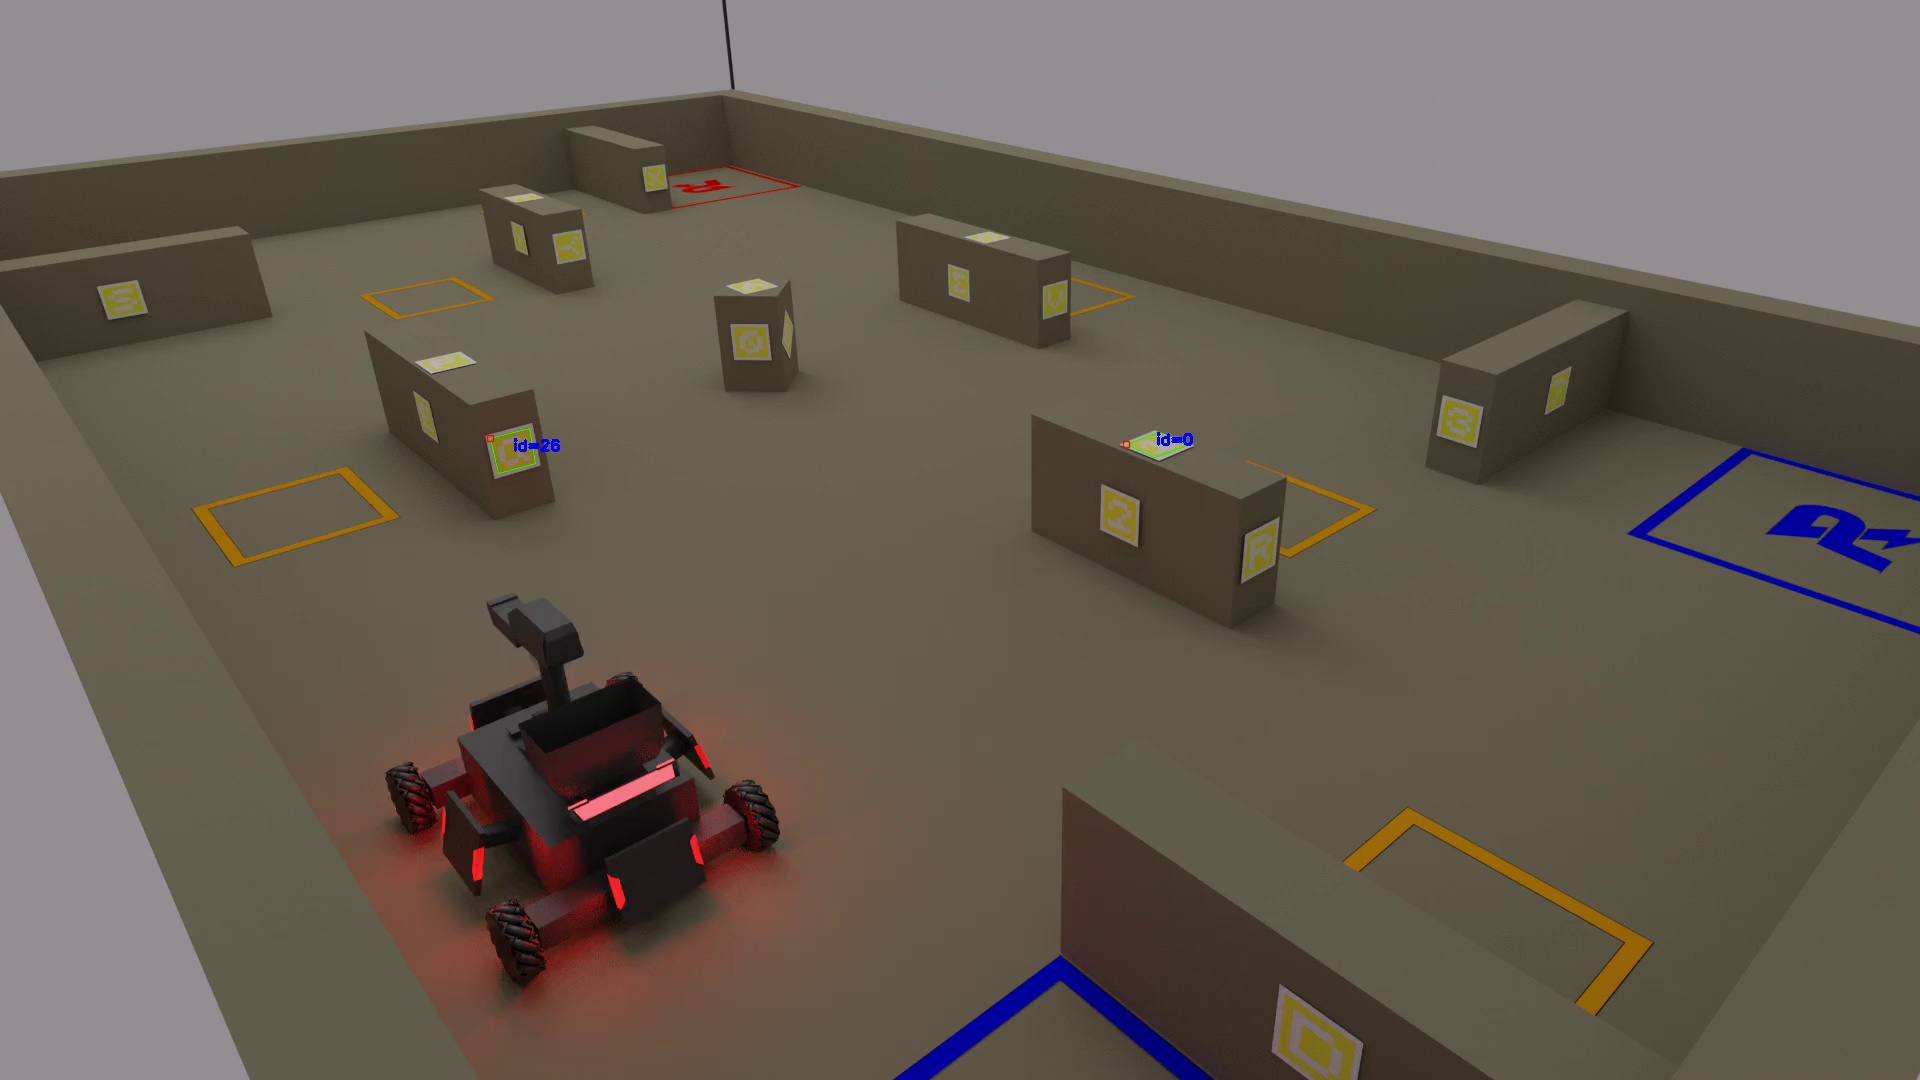
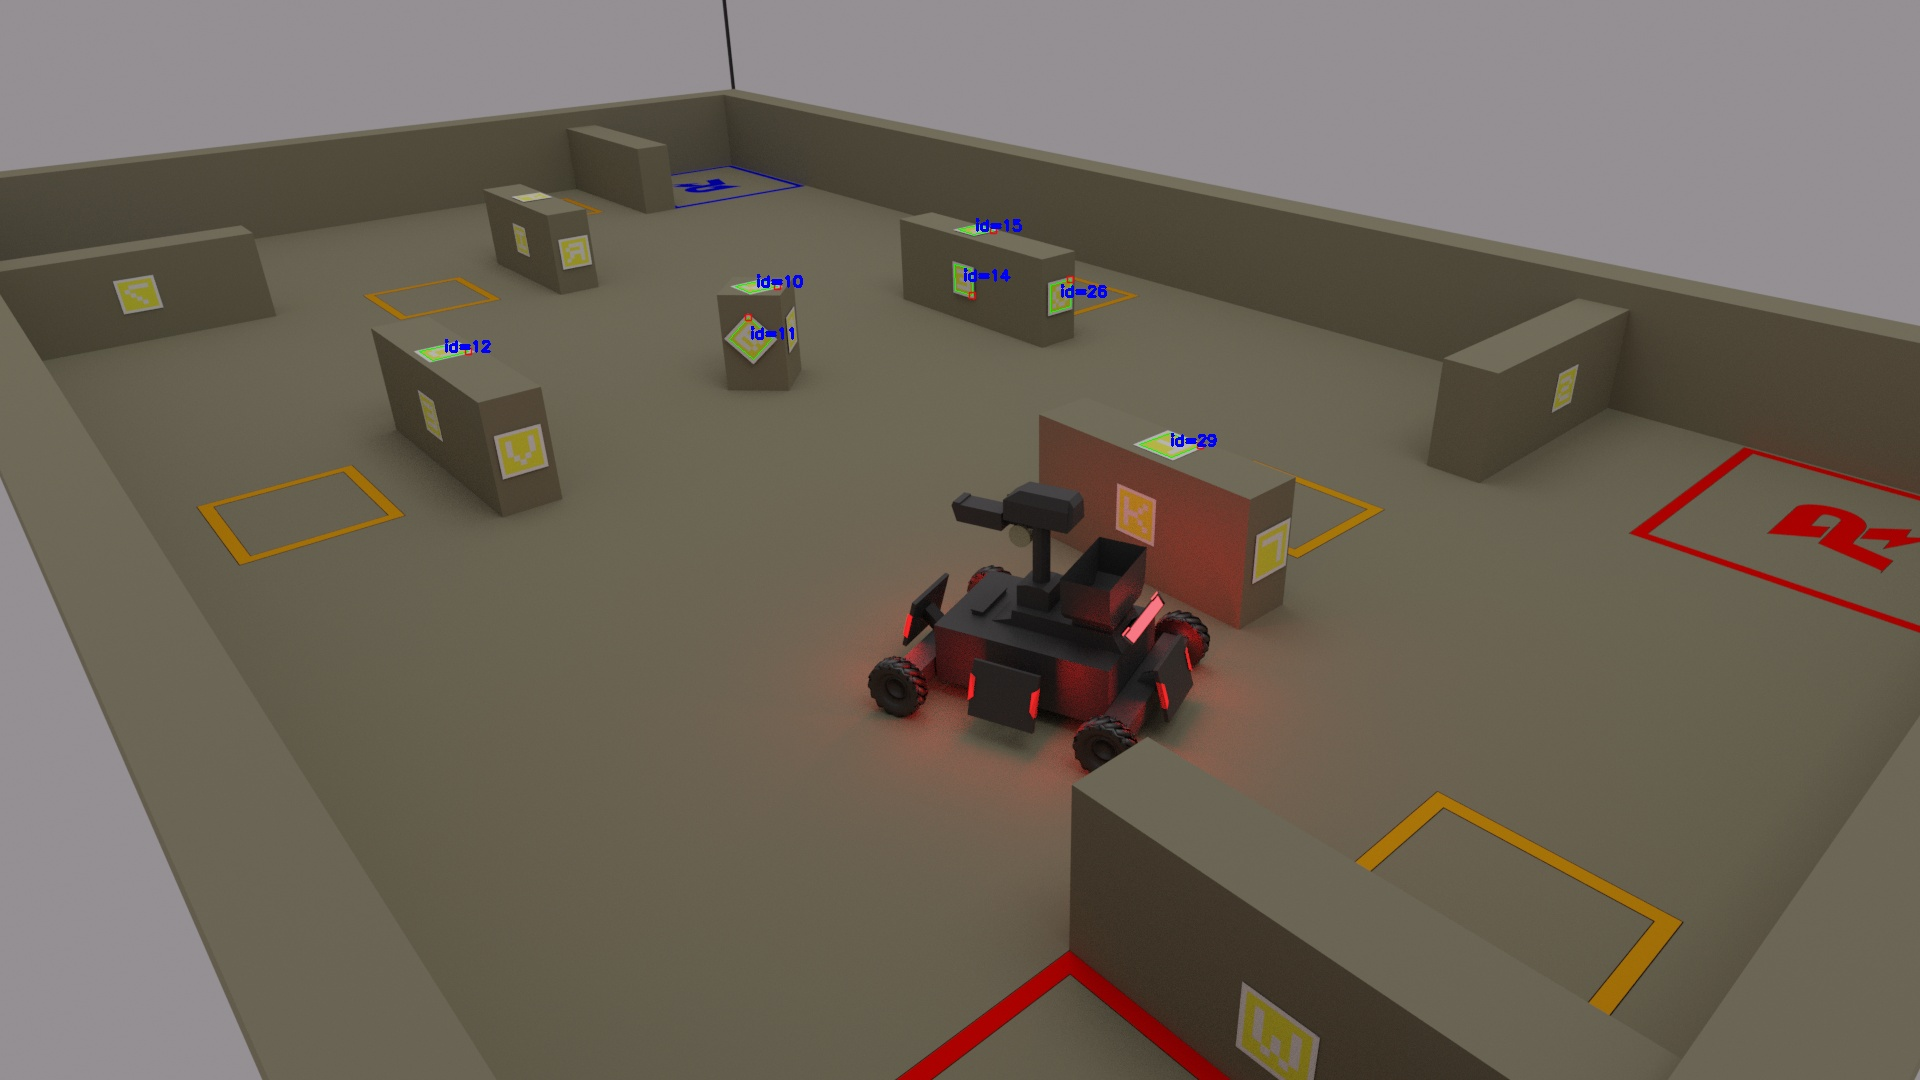
gaumutra=vaccine

diff --git a/vision_marker.py b/vision_marker.py
@@ -123,8 +123,16 @@ mybits = np.array([[1,1,1,1,1],[1,0,1,0,1],[1,1,1,1,1],[1,0,1,0,1],[1,1,1,1,1]],
 aruco_dict.bytesList[43] = aruco.Dictionary_getByteListFromBits(mybits)
 cap = cv2.VideoCapture('video/Sentry_1.mkv')
 ret, frame = cap.read()
-# frame = cv2.imread("lol5.png")
-
+frame= cv2.imread("lol5.png")
+# ret, img = cap.read()
+# scale_percent = 40 # percent of original size
+# width = int(img.shape[1] * scale_percent / 100)
+# height = int(img.shape[0] * scale_percent / 100)
+# dim = (width, height)
+# # fourcc = cv.VideoWriter_fourcc(*'XVID')
+# # out = cv.VideoWriter('1.avi',fourcc, 20.0, (dim[1],dim[0]))
+# # resize image
+# frame = cv2.resize(img, dim, interpolation = cv2.INTER_AREA)
 frame1=cv2.cvtColor(frame, cv2.COLOR_BGR2HSV)
 lower_yel = np.array([23,41,133], dtype = "uint8")
 upper_yel = np.array([60,255,255], dtype = "uint8")
@@ -133,8 +141,8 @@ frame1=255-frame1
 # clahe = cv2.createCLAHE(clipLimit=22.0, tileGridSize=(10,30))
 # frame1 = clahe.apply(frame1)
 
-# frame1 = cv2.adaptiveThreshold(frame1, 255, cv2.ADAPTIVE_THRESH_GAUSSIAN_C, cv2.THRESH_BINARY,11,2)
-# cv2.imshow('1', frame1)
+frame1 = cv2.adaptiveThreshold(frame1, 255, cv2.ADAPTIVE_THRESH_GAUSSIAN_C, cv2.THRESH_BINARY,11,2)
+cv2.imshow('1', frame1)
 # cv2.waitKey(-1)
 #lists of ids and the corners beloning to each id
 corners, ids, rejectedImgPoints = aruco.detectMarkers(frame1, aruco_dict)
@@ -147,7 +155,7 @@ m=0
 while m < (len(ids)):
     x = int((corners[m][0][0][0] + corners[m][0][1][0] + corners[m][0][2][0] + corners[m][0][3][0]) / 4)
     y = int((corners[m][0][0][1] + corners[m][0][1][1] + corners[m][0][2][1] + corners[m][0][3][1]) / 4)
-    print(x, y)
+    print(x, y,ids[m])
     center[2*m]=x
     center[2*m+1]=y
     m=m+1

diff --git a/Armour_detection.py b/Armour_detection.py
@@ -19,8 +19,8 @@ while(frames<299):
     width = int(img.shape[1] * scale_percent / 100)
     height = int(img.shape[0] * scale_percent / 100)
     dim = (width, height)
-    fourcc = cv.VideoWriter_fourcc(*'XVID')
-    out = cv.VideoWriter('1.avi',fourcc, 20.0, (dim[1],dim[0]))
+    # fourcc = cv.VideoWriter_fourcc(*'XVID')
+    # out = cv.VideoWriter('1.avi',fourcc, 20.0, (dim[1],dim[0]))
     # resize image
     frame = cv.resize(img, dim, interpolation = cv.INTER_AREA)
     frame2=frame.copy()
